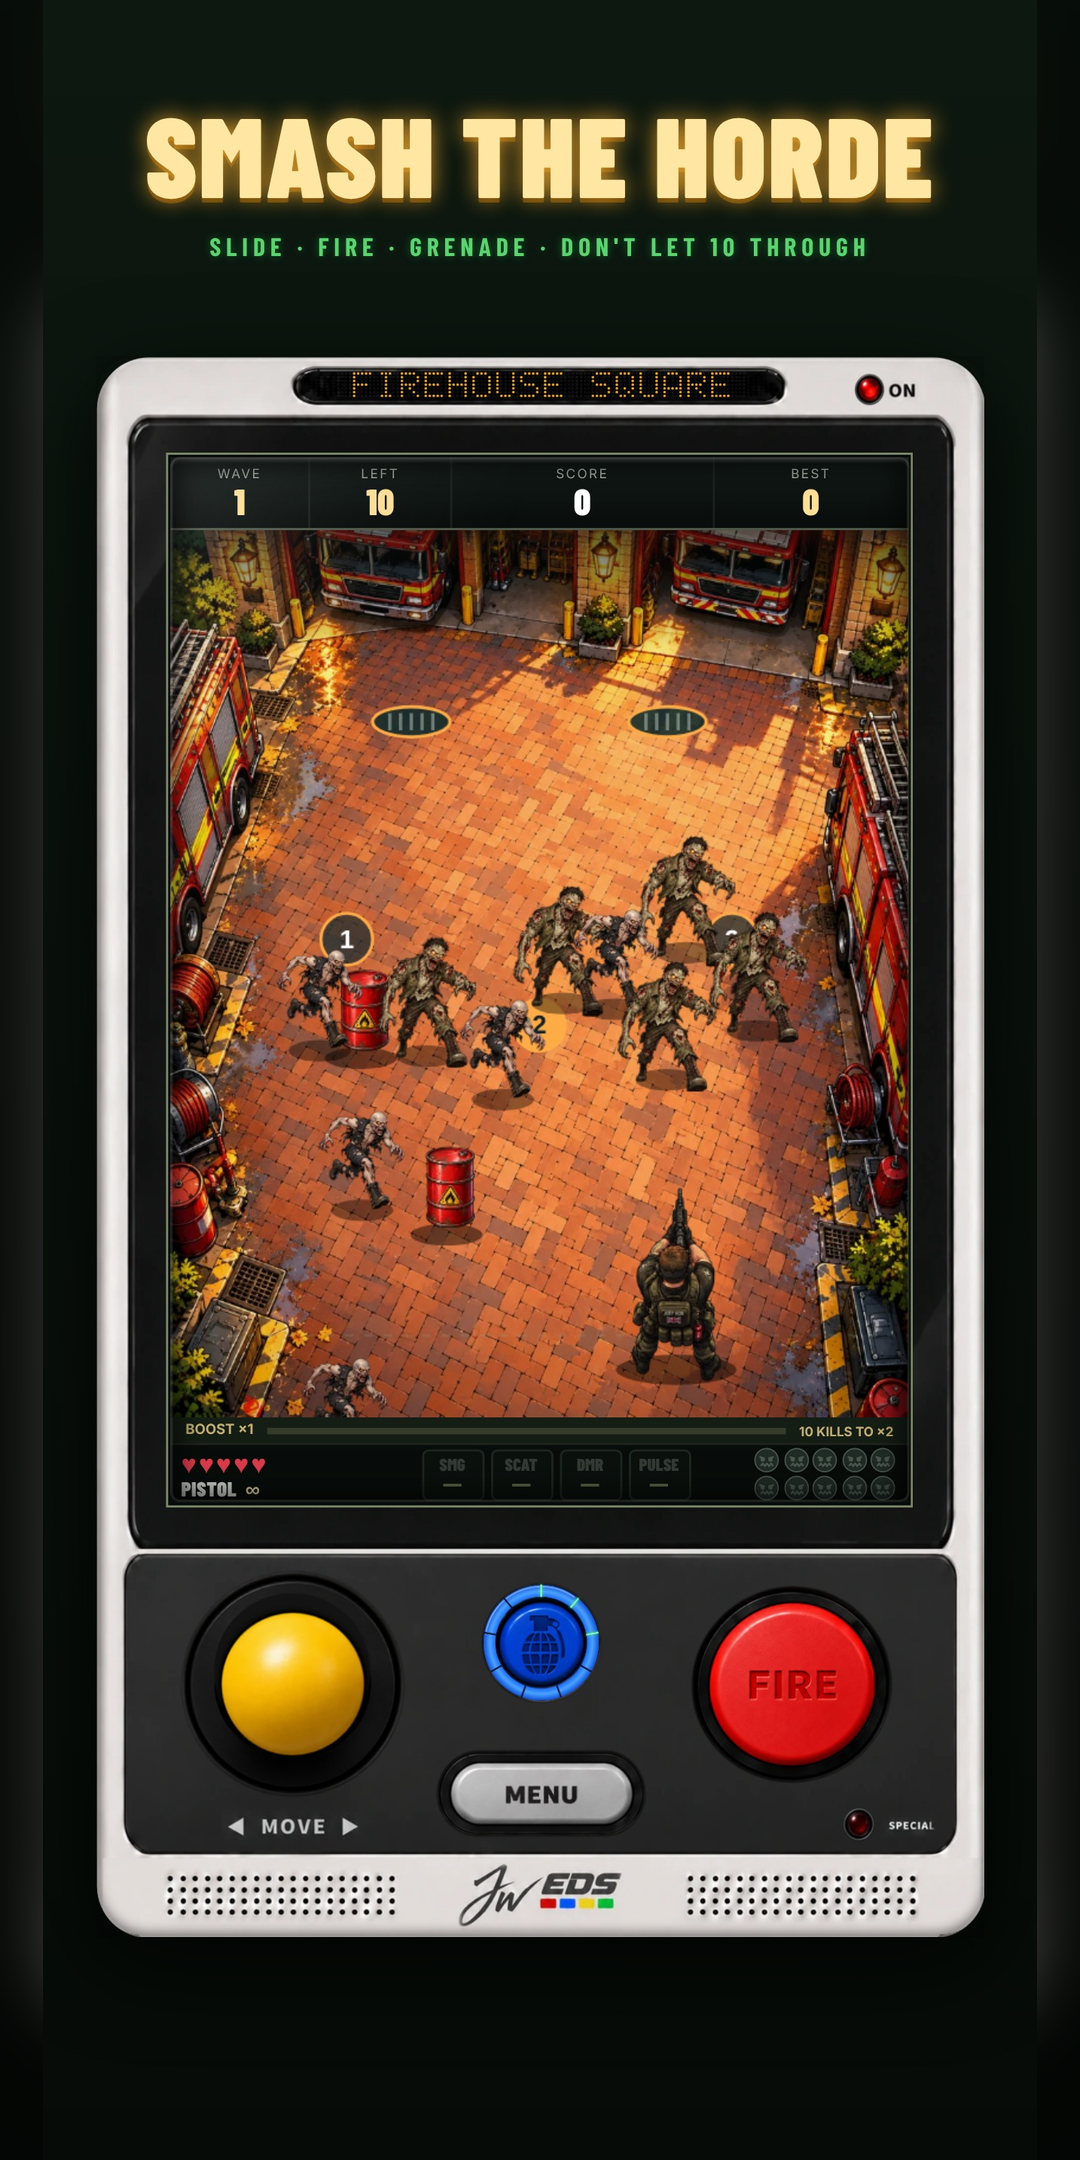
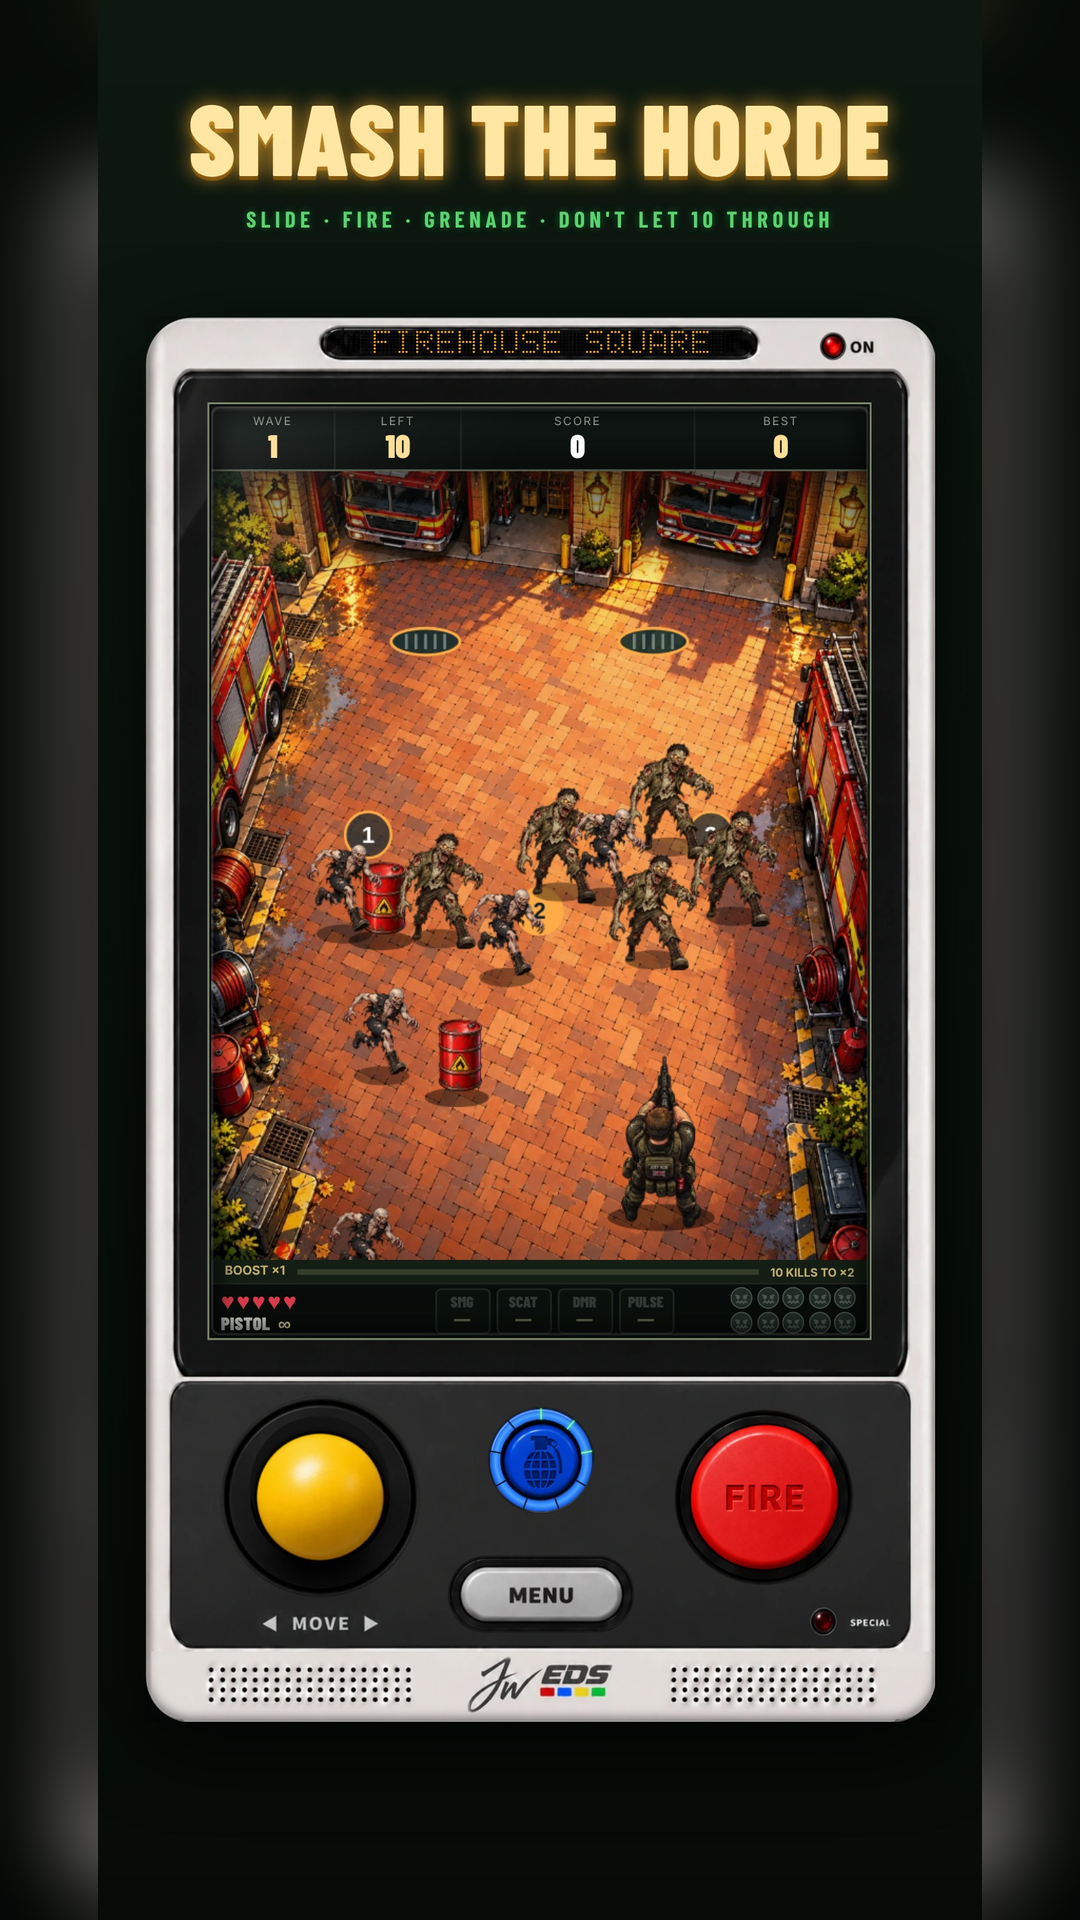
Play screenshots at exactly 9:16 (1080x1920) as the store listing form requires
Claude-Session: https://claude.ai/code/session_016h9AER248gGBxUzMNLfo7H

diff --git a/docs/ANDROID-PLAY-SETUP.md b/docs/ANDROID-PLAY-SETUP.md
@@ -47,7 +47,7 @@ Claude cannot log in to Play Console, and you should never share your Google log
 |---|---|
 | App icon (512x512) | `store/play/graphics/icon-512.png` |
 | Feature graphic (1024x500) | `store/play/graphics/feature-graphic-1024x500.png` |
-| Phone screenshots (2 to 8) | `store/play/screenshots/*.png` (1080x2160, the 2:1 maximum Play allows; sides filled with a blurred copy because the iPhone shots are slightly taller) |
+| Phone screenshots (2 to 8) | `store/play/screenshots/*.png` (1080x1920, exactly 9:16 as the Play form requires; sides filled with a blurred copy because the iPhone shots are taller) |
 | Short description (max 80) | `store/play/short-description.txt` |
 | Full description (max 4000) | `store/play/full-description.txt` |
 Also fill in: category Games > Action, contact email support@zc2.quest, website https://zc2.quest, privacy policy https://zc2.quest/privacy.html, Data safety form and content rating as in step 5.
